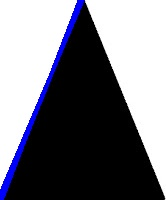
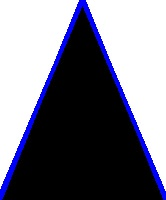
Hough transform and deHoughing is now correct. TODO: identify parameters for ht_test_n

diff --git a/hw11/cs3430_s19_hw11.py b/hw11/cs3430_s19_hw11.py
@@ -48,9 +48,6 @@ def nra(poly_fexpr, g, n):
 
     return make_const(new_guess)
 
-    
-
-    
 
 ################# Unit Tests for Problem 1 ###################
 
@@ -139,16 +136,17 @@ def ht_detect_lines(img_fp, magn_thresh=20, spl=20):
     # Image Array for image with edges colored white and nonedges colored black
     image_bw_edges = np.zeros((img_shape[0] - 1, img_shape[1] - 1))
 
-    # Hough Accumulator
-    theta_ubound = 181
-    rho_ubound = int(math.sqrt(img_shape[0] ** 2 + img_shape[1] ** 2))
-    hough_table  = np.zeros((theta_ubound, rho_ubound))
+    # Hough Accumulator Construction
+    theta_ubound = 181 # 180 degrees + 1 to account for range(n) yielding n-1 rather than n.
+    rho_ubound   = int(math.sqrt(img_shape[0] ** 2 + img_shape[1] ** 2))
+    hough_table  = np.zeros((rho_ubound, theta_ubound)) # (theta_ubound, rho_ubound))
+    convert_to_degrees = np.pi / 180    # np.cos / sin default to radians
 
-    # Iterate over the pixels in the image ignoring borders to calculate 
+    # Iterate over the pixels in the image ignoring borders for calculations
     for row in range(1, image_arr.shape[0] - 1):
         for col in range(1, image_arr.shape[1] - 1):
             
-            # Calculate change in luminosity from above to below and left to right of the pixel.
+            # Calculate change in luminosity about a pixel -> above to below and left to right of the pixel.
             dy = luminosity(rgb=image_arr[row - 1, col]) - luminosity(rgb=image_arr[row + 1, col])
             dx = luminosity(rgb=image_arr[row, col - 1]) - luminosity(rgb=image_arr[row, col + 1])
             gradient = pixel_gradient(dy, dx)
@@ -160,17 +158,18 @@ def ht_detect_lines(img_fp, magn_thresh=20, spl=20):
 
                 # Conduct accumulator array voting
                 for theta in range(theta_ubound):
-                    rho = int(row * math.cos(theta) + col * math.sin(theta))
-                    hough_table[theta, rho] += 1
+                    rho = int(row * np.cos(theta * convert_to_degrees) + col * np.sin(theta * convert_to_degrees))
+                    hough_table[rho, theta] += 1 # hough_table[theta, rho] += 1
+
 
     # Iterate over accumulator values and place lines on the image if the vote is above the threshold
-    image_with_lines = image_arr[:]
+    image_with_lines = image_arr[:]     # Create separate image to hold lines
 
     for theta in range(theta_ubound):
         for rho in range(rho_ubound):
-            if hough_table[theta, rho] > spl:
-                a = np.sin(theta) 
-                b = np.cos(theta) 
+            if hough_table[rho, theta] > spl:   # if hough_table[theta, rho] > spl:
+                b = np.cos(theta * convert_to_degrees) 
+                a = np.sin(theta * convert_to_degrees)
                 x0 = a * rho
                 y0 = b * rho
                 x1 = int(x0 + 1000 * (-b))
@@ -187,8 +186,10 @@ def pixel_gradient(dy, dx):
 
     return math.sqrt((dy ** 2) + (dx ** 2))
 
+
 def luminosity(rgb, rcoeff=0.2126, gcoeff=0.7152, bcoeff=0.0722):
     """Returns grayscale value a BGR 3-tuple."""
+
     return rcoeff*rgb[2]+gcoeff*rgb[1]+bcoeff*rgb[0]
 
 ################ Unit Tests for Problem 2 ####################
@@ -200,9 +201,8 @@ def luminosity(rgb, rcoeff=0.2126, gcoeff=0.7152, bcoeff=0.0722):
 ## of these tests the same.
 
 def ht_test_abstract(img_fp, magn_thresh, spl):
-    img, lnimg, edimg, ht = ht_detect_lines(img_fp,
-                                            magn_thresh=magn_thresh,
-                                            spl=spl)
+    img, lnimg, edimg, ht = ht_detect_lines(img_fp, magn_thresh=magn_thresh, spl=spl)
+    ht = cv2.equalizeHist(ht.astype(np.uint8))  # Creates image of Houghtable with equalized light
     fileparts = img_fp.split('.')
     if len(fileparts) != 2:
         print("Unable to save image files. Please use absolute file paths for test.")
@@ -212,37 +212,40 @@ def ht_test_abstract(img_fp, magn_thresh, spl):
     img_path = fileparts[0]
     ftype = fileparts[1]
 
+    # Write all the new images to the path and clear memory
     cv2.imwrite(img_path + '_ln.' + ftype, lnimg)
     cv2.imwrite(img_path + '_ed.' + ftype, edimg)
+    cv2.imwrite(img_path + '_ht.' + ftype, ht)
     del img
     del lnimg
     del edimg
+    del ht
 
 def ht_test_01(img_fp, magn_thresh=20, spl=150):
     ht_test_abstract(img_fp, magn_thresh=magn_thresh, spl=spl)
 
-def ht_test_02(img_fp, magn_thresh=35, spl=110):
+def ht_test_02(img_fp, magn_thresh=100, spl=190):
     ht_test_abstract(img_fp, magn_thresh=magn_thresh, spl=spl)
 
-def ht_test_03(img_fp, magn_thresh=35, spl=110):
+def ht_test_03(img_fp, magn_thresh=150, spl=110):
     ht_test_abstract(img_fp, magn_thresh=magn_thresh, spl=spl)
 
-def ht_test_04(img_fp, magn_thresh=35, spl=200):
+def ht_test_04(img_fp, magn_thresh=50, spl=200):
     ht_test_abstract(img_fp, magn_thresh=magn_thresh, spl=spl)
 
-def ht_test_05(img_fp, magn_thresh=20, spl=20):
+def ht_test_05(img_fp, magn_thresh=35, spl=100):
     ht_test_abstract(img_fp, magn_thresh=magn_thresh, spl=spl)
 
 def ht_test_06(img_fp, magn_thresh=35, spl=100):
     ht_test_abstract(img_fp, magn_thresh=magn_thresh, spl=spl)
 
-def ht_test_07(img_fp, magn_thresh=15, spl=200):
+def ht_test_07(img_fp, magn_thresh=15, spl=180):
     ht_test_abstract(img_fp, magn_thresh=magn_thresh, spl=spl)
 
 def ht_test_08(img_fp, magn_thresh=20, spl=450):
     ht_test_abstract(img_fp, magn_thresh=magn_thresh, spl=spl)
 
-def ht_test_09(img_fp, magn_thresh=15, spl=400):
+def ht_test_09(img_fp, magn_thresh=30, spl=400):
     ht_test_abstract(img_fp, magn_thresh=magn_thresh, spl=spl)
 
 def ht_test_10(img_fp, magn_thresh=10, spl=250):
@@ -266,16 +269,14 @@ if __name__ == '__main__':
     # nra_ut_09()
     # nra_ut_10()
     # ht_test_01('img_test/EdgeImage_01.jpg')
-    ht_test_02('img_test/EdgeImage_02.jpg')
-    ht_test_03('img_test/EdgeImage_03.jpg')
+    # ht_test_02('img_test/EdgeImage_02.jpg')
+    # ht_test_03('img_test/EdgeImage_03.jpg')
     ht_test_04('img_test/envelope.jpeg')
-    ht_test_05('img_test/horline.png')
-    ht_test_06('img_test/verline.png')
-    ht_test_07('img_test/cross.png')
-    ht_test_08('img_test/tiles.jpeg')
-    ht_test_09('img_test/kitchen.jpeg')
-    ht_test_10('img_test/road01.png')
-    ht_test_11('img_test/road02.png')
-    ht_test_12('img_test/road03.png')
-
-
+    # ht_test_05('img_test/horline.png')
+    # ht_test_06('img_test/verline.png')
+    # ht_test_07('img_test/cross.png')
+    # ht_test_08('img_test/tiles.jpeg')
+    # ht_test_09('img_test/kitchen.jpeg')
+    # ht_test_10('img_test/road01.png')
+    # ht_test_11('img_test/road02.png')
+    # ht_test_12('img_test/road03.png')
